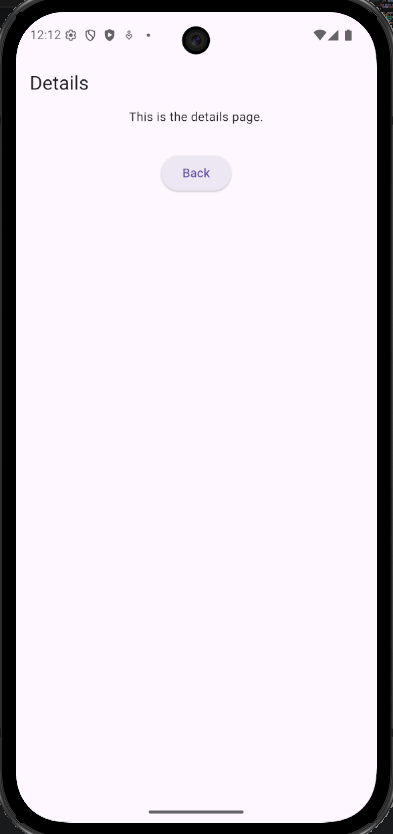
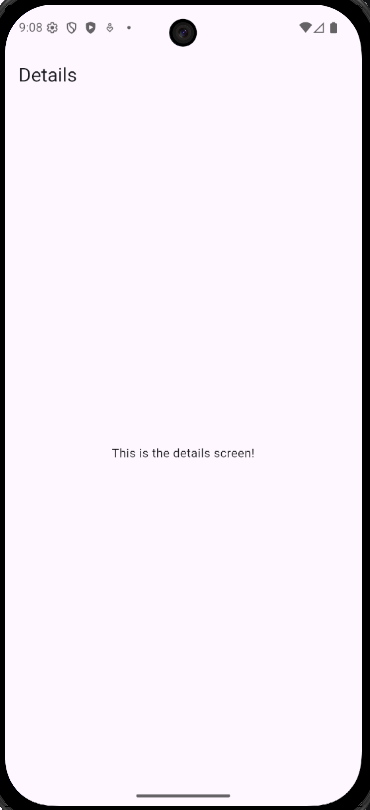
updated the go_routing_demo01

diff --git a/go_routing_demo/go_routing_demo01/lib/main.dart b/go_routing_demo/go_routing_demo01/lib/main.dart
@@ -39,20 +39,7 @@ class DetailsScreen extends StatelessWidget {
   Widget build(BuildContext context) {
     return Scaffold(
       appBar: AppBar(title: const Text('Details')),
-      body: Center(
-        child: Column(
-          children: [
-            Text('This is the details page.'),
-            SizedBox(height: 30.0),
-            ElevatedButton(
-              // onPressed: () => context.go('/details'),
-              // onPressed: () => context.go('/product/42?filter=popular'),
-              onPressed: () => context.goNamed('home'),
-              child: const Text('Back'),
-            ),
-          ],
-        ),
-      ),
+      body: const Center(child: Text('This is the details screen!')),
     );
   }
 }
